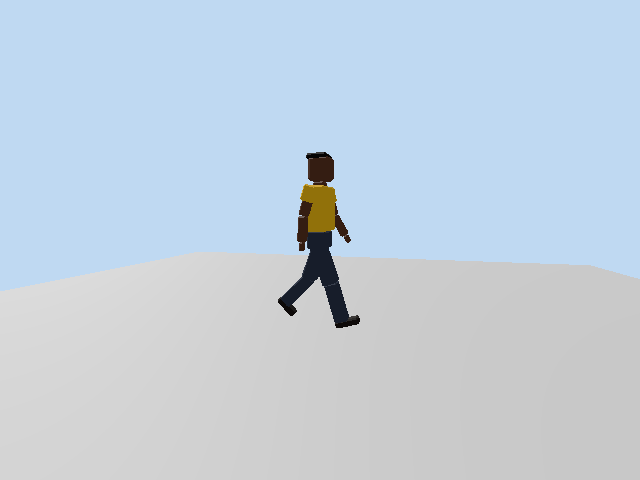
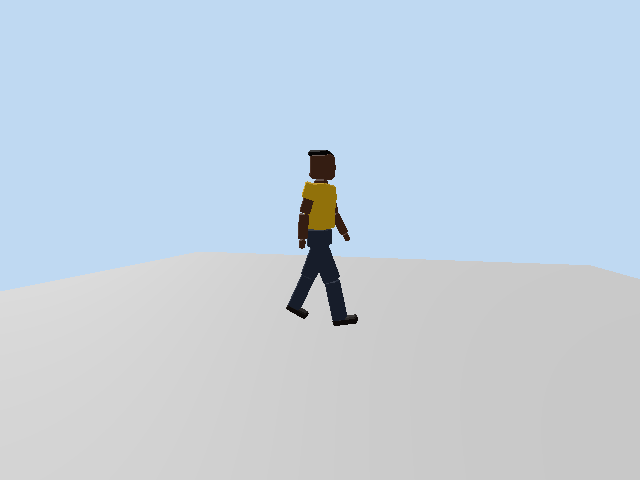
Deplacements plus realistes : interpolation, 3 allures, saut et inertie

Changed region(s): [[0.4375, 0.3125, 0.5312, 0.6562], [0.5, 0.6562, 0.5625, 0.6875]]

diff --git a/docs/PIPELINE.md b/docs/PIPELINE.md
@@ -75,6 +75,8 @@ Piege : Godot lit les suffixes -col ET _col (et -colonly, -convcol...) dans les 
 ## Personnage joueur (blockout)
 blender/tools/build_character.py -> blender/chr/chr_joueur.blend + godot/assets/models/chr_joueur.glb
 Pieces rigides sur pivots aux articulations (piv_bassin, piv_tronc, piv_tete, piv_epaule_G/D, piv_coude_G/D, piv_hanche_G/D, piv_genou_G/D).
-Animation procedurale : godot/scripts/character_anim.gd (idle, marche, course, saut ; phase du pas liee a la distance, pas de glissement).
+Animation procedurale : godot/scripts/character_anim.gd. 3 allures melangees selon la vitesse (marche 1,6 / trot 4,2 / sprint 7 m/s), phase de vol en course,
+pose de saut figee (montee / chute), reception amortie, inclinaison virages et acceleration. Tourne dans _physics_process (interpolation physique active).
+Controles : ZQSD trot, Shift sprint, Ctrl marche, Espace saut. Inertie : 9 m/s2 au demarrage, 14 au freinage, virages plus larges en sprint.
 Captures des poses : godot --path godot --script res://tests/capture_anim.gd -- <dossier> (ouvre une fenetre quelques secondes). Apercus : docs/images/chr_pose_*.png
 Remplacement futur par Mixamo : garder player.gd, remplacer Body/Model et character_anim.gd par un AnimationTree.

diff --git a/docs/benin-gta-roadmap.md b/docs/benin-gta-roadmap.md
@@ -135,6 +135,7 @@ Option plus tard : multijoueur.
 - 14/10/2026 : joueur 3e personne (capsule, ZQSD, Shift course, Espace saut, camera orbitale souris + molette) place dans zone_aeroport.tscn. A tester par Olympe.
 - 14/10/2026 : Godot 4.7.2 trouve (Telechargements). Test auto du joueur OK : marche 4 m/s, course 8,5 m/s, saut, aucun blocage depuis la plage. Apparition deplacee sur la plage.
 - 14/10/2026 : personnage humanoide low poly (blender/tools/build_character.py) + animation procedurale (character_anim.gd), verifies par captures et test auto. Bug corrige : un objet nomme *_col cree une collision cachee dans Godot.
+- 14/10/2026 : retour Olympe (saccades, course pas credible, gigote en l air). Interpolation physique, camera lissee, vitesses reelles (marche 1,6 / trot 4,2 / sprint 7 m/s, Ctrl pour marcher), 3 allures avec phase de vol, saut fige, reception amortie, inertie et inclinaison en virage.
 
 ---
 
